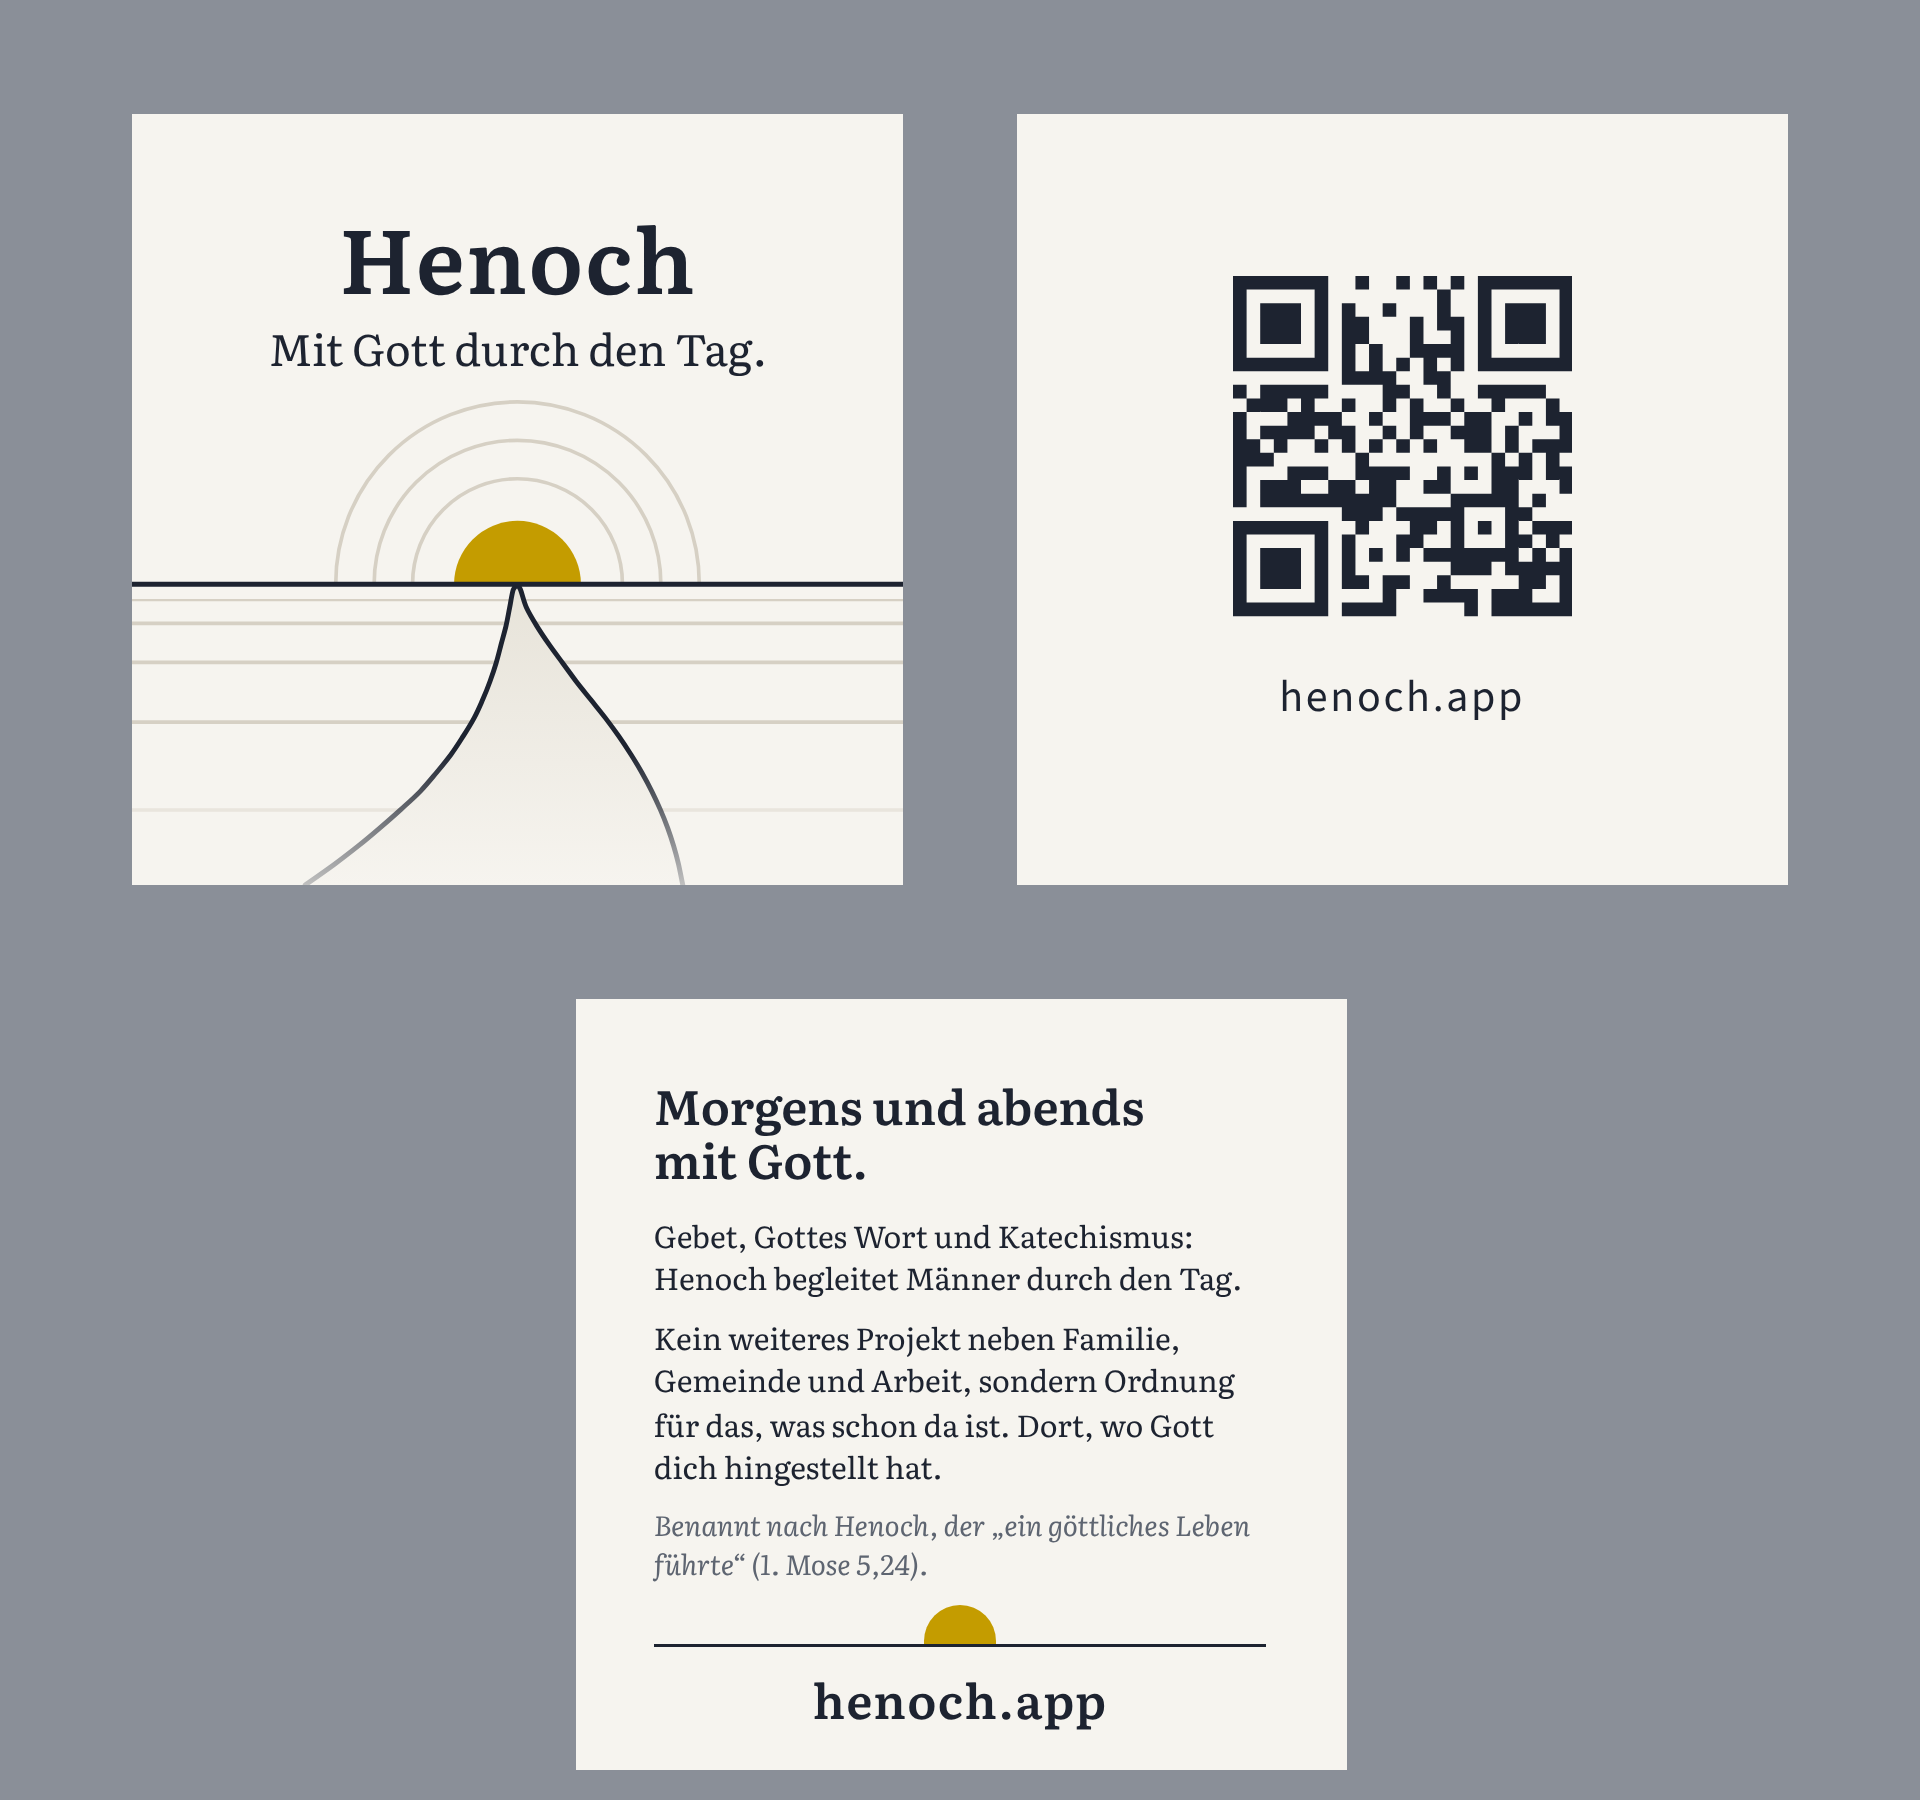
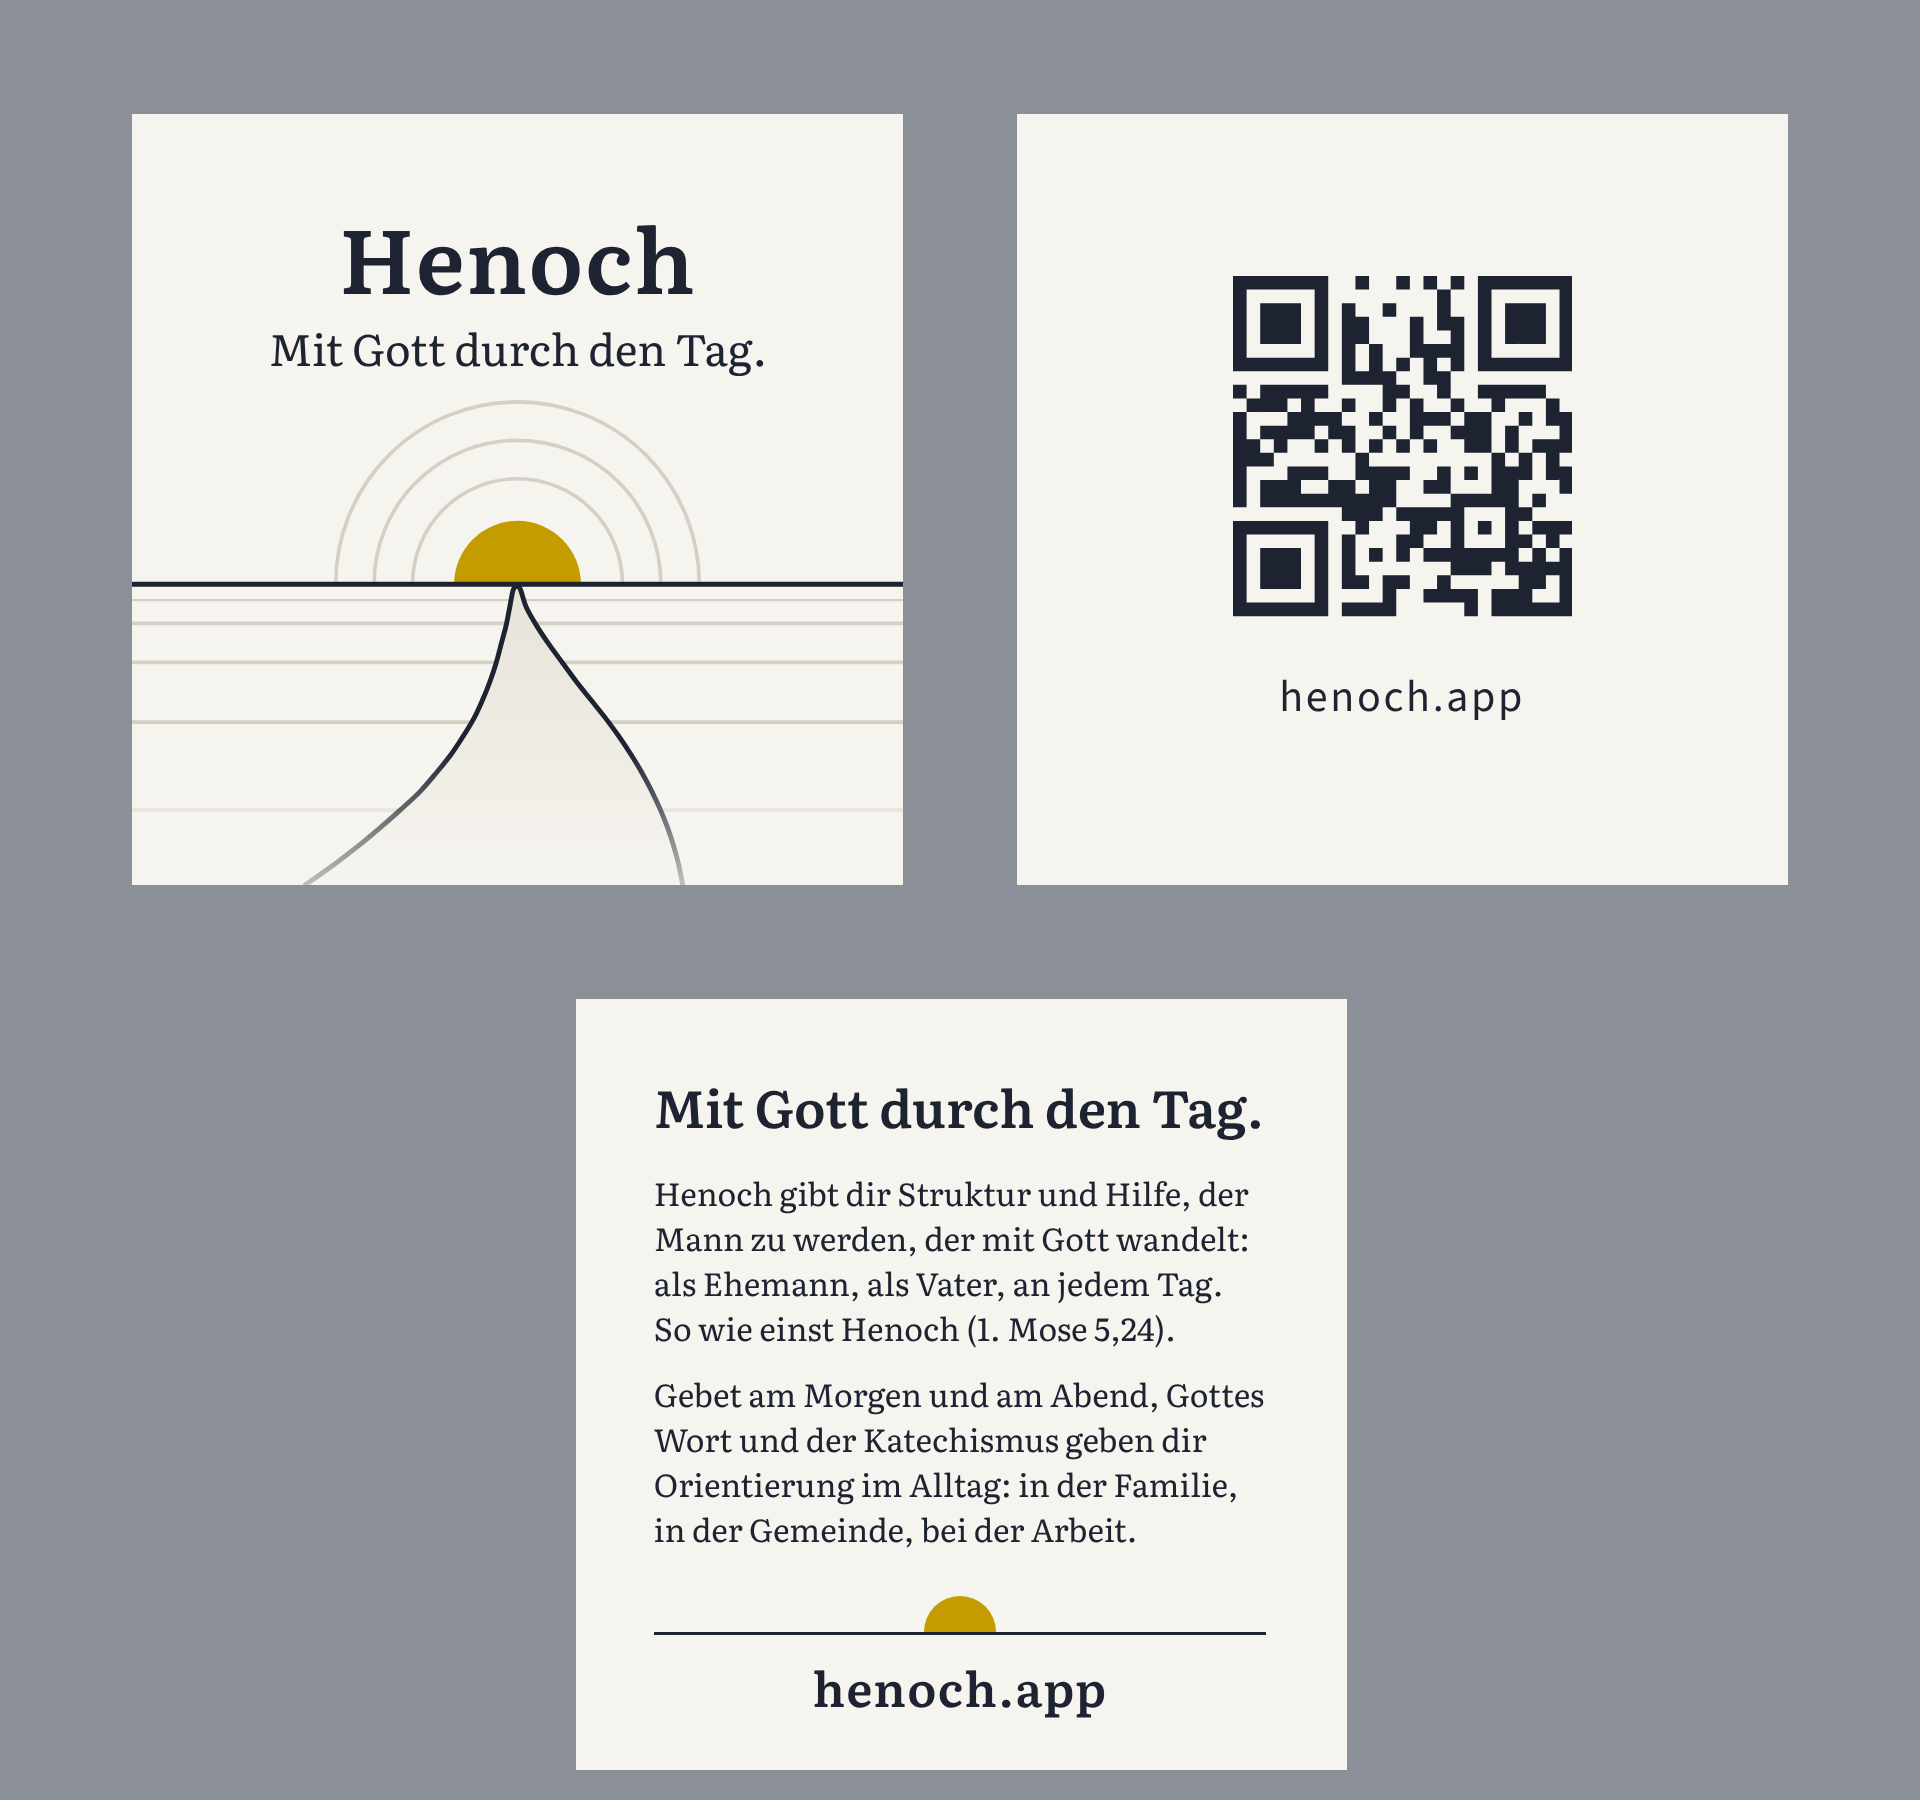
Visitenkarte: Rückseite mit Text „Mit Gott durch den Tag.“
Claude-Session: https://claude.ai/code/session_01JETNZ2BbFd9PaqHXcpm5eH

Changed region(s): [[0.3438, 0.5911, 0.6562, 0.9644]]

diff --git a/docs/visitenkarte/visitenkarte.html b/docs/visitenkarte/visitenkarte.html
@@ -45,8 +45,8 @@ body { display: flex; flex-wrap: wrap; gap: 10mm; padding: 10mm; justify-content
 /* Alternative back: headline, two short paragraphs, then the address under the icon's horizon and sun. */
 .back-text { justify-content: flex-start; align-items: stretch; padding: calc(var(--bleed) + 5.5mm) calc(var(--bleed) + 5.5mm) calc(var(--bleed) + 5mm); }
 .pitch { margin-bottom: 2.2mm; font-family: 'Literata', Georgia, serif; hyphens: auto; -webkit-hyphens: auto; }
-.pitch h2 { font-weight: 600; font-size: 12pt; line-height: 1.15; margin: 0 0 2.4mm; }
-.pitch p { font-size: 7.6pt; line-height: 1.4; margin: 0 0 1.6mm; }
+.pitch h2 { font-weight: 600; font-size: 13pt; line-height: 1.15; margin: 0 0 2.8mm; }
+.pitch p { font-size: 8pt; line-height: 1.42; margin: 0 0 1.8mm; }
 .pitch .source { font-style: italic; color: var(--muted); font-size: 7pt; margin: 0; }
 .horizon { margin-top: auto; flex: none; position: relative; height: 3.2mm; border-bottom: 0.35mm solid var(--ink); }
 .horizon::after { content: ''; position: absolute; left: 50%; bottom: 0; width: 6.4mm; height: 3.2mm; margin-left: -3.2mm; border-radius: 3.2mm 3.2mm 0 0; background: var(--gold); }
@@ -106,10 +106,9 @@ body { display: flex; flex-wrap: wrap; gap: 10mm; padding: 10mm; justify-content
 
 <section class="card back-text" aria-label="Rückseite mit Text">
   <div class="pitch">
-    <h2>Morgens und abends mit&nbsp;Gott.</h2>
-    <p>Gebet, Gottes Wort und Katechismus: Henoch begleitet Männer durch den Tag.</p>
-    <p>Kein weiteres Projekt neben Familie, Gemeinde und Arbeit, sondern Ordnung für das, was schon da ist. Dort, wo Gott dich hingestellt hat.</p>
-    <p class="source">Benannt nach Henoch, der „ein göttliches Leben führte“ (1.&nbsp;Mose&nbsp;5,24).</p>
+    <h2>Mit Gott durch den Tag.</h2>
+    <p>Henoch gibt dir Struktur und Hilfe, der Mann zu werden, der mit Gott wandelt: als Ehemann, als Vater, an jedem Tag. So wie einst Henoch (1.&nbsp;Mose&nbsp;5,24).</p>
+    <p>Gebet am Morgen und am Abend, Gottes Wort und der Katechismus geben dir Orientierung im Alltag: in der Familie, in der Gemeinde, bei der Arbeit.</p>
   </div>
   <div class="horizon" aria-hidden="true"></div>
   <div class="site">henoch.app</div>
